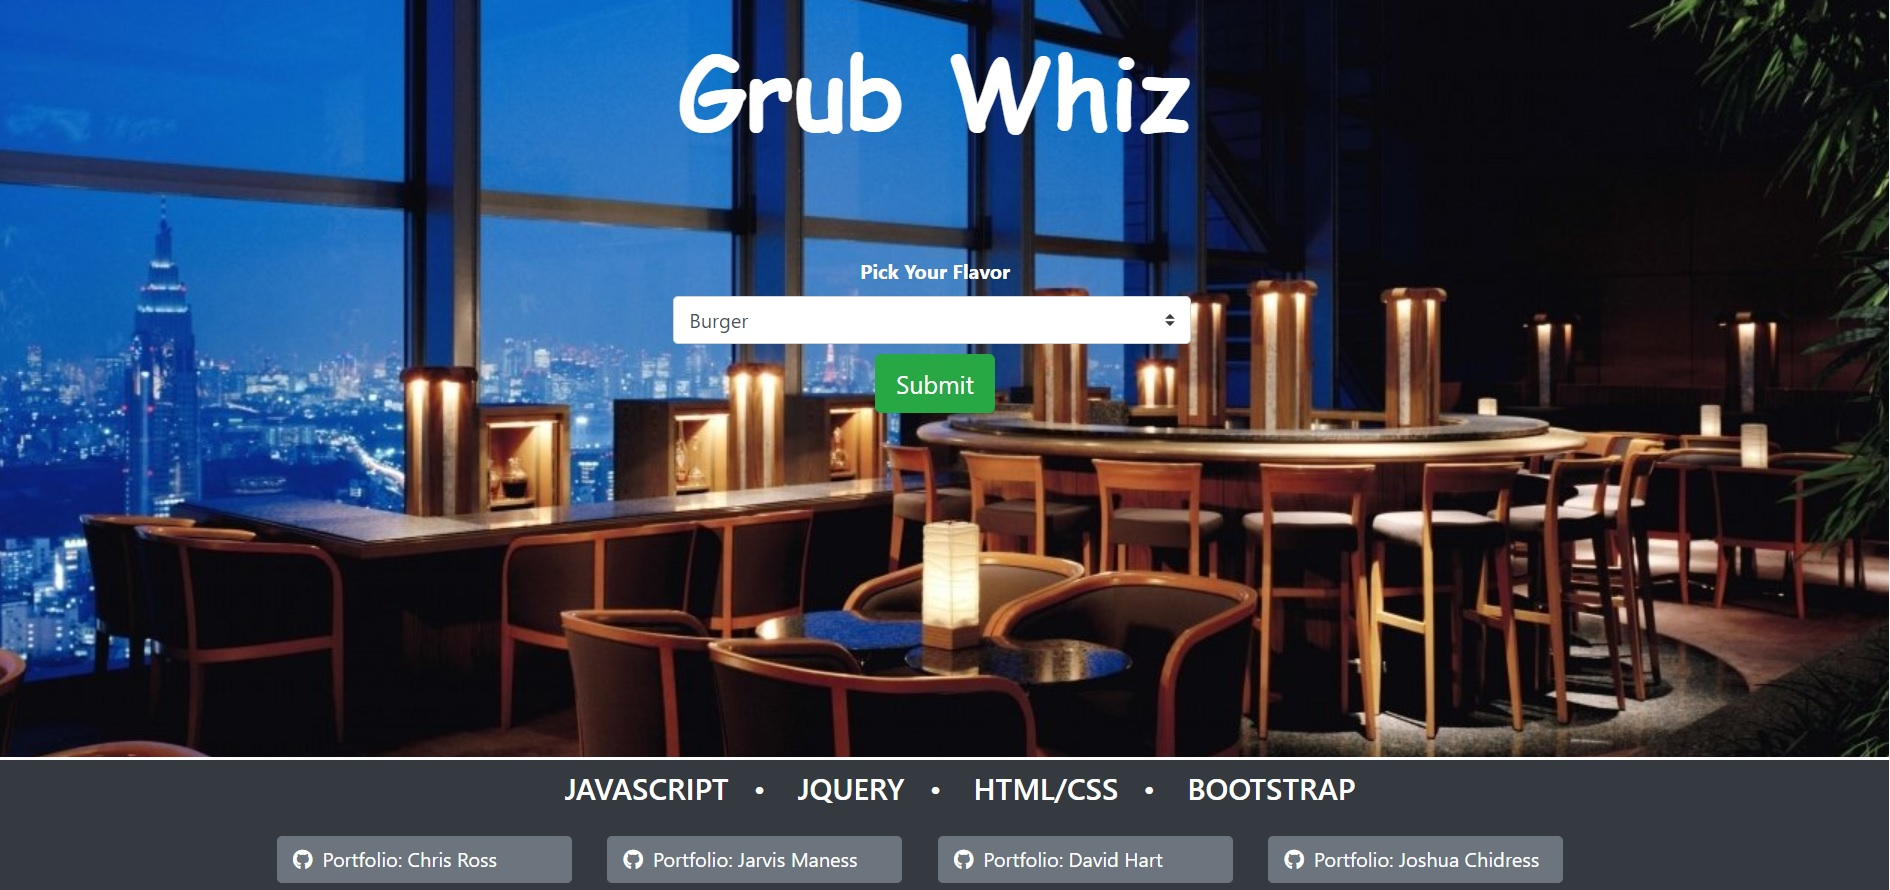
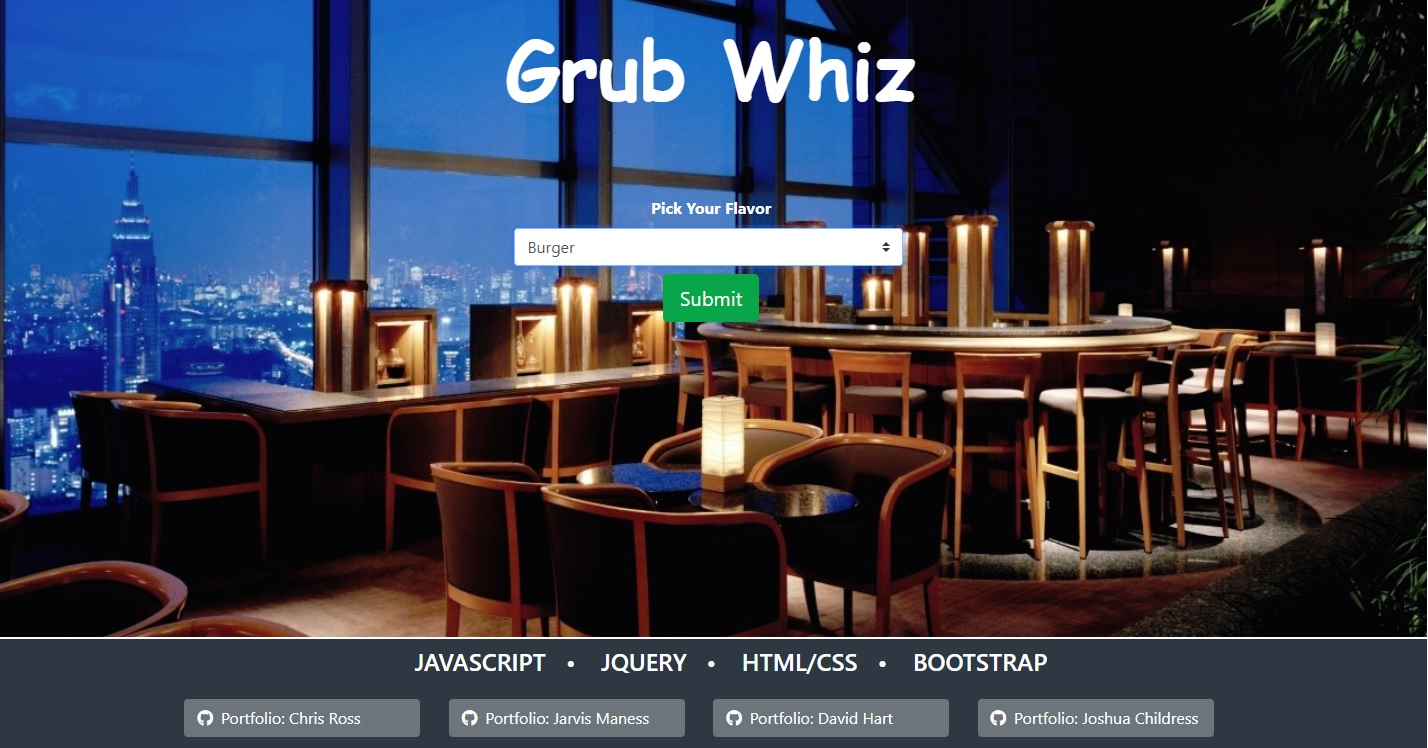
Update readme, fixed Josh's name in footer

diff --git a/index.html b/index.html
@@ -117,7 +117,7 @@
 
 
         <a href="https://github.com/Jrchild13" target="_blank" class="btn btn-secondary text-left mb-3 mr-4"><span
-                class="fab fa-github pr-2"></span>Portfolio: Joshua Chidress</a>
+                class="fab fa-github pr-2"></span>Portfolio: Joshua Childress</a>
 
     </footer>
     <!-- FOOTER END-->

diff --git a/README.md b/README.md
@@ -49,10 +49,28 @@ Use the template below, replacing the user stories and acceptance criteria with 
 ## User Story
 As a user, I want to be able to input search queries so that I can search Stack Overflow when I'm stuck.
 
+<ol>
+    <li>Target audience is hungry people that are looking for a local place to eat based on certain criteria.</li>
+    <li>Provide a simple way to get info about local restaurants.</li>
+    <li>Provide an intuitive way to search based on criteria such as location, style, cost, menu.</li>
+    <li>User wants easy way to lookup local restaurant.</li>
+    <li>User wants to specify type of restaurant.</li>
+    <li>User wants some user basic review info.</li>
+</ol>
+
+
 ## Acceptance Criteria
 - [ ] index.html has a text input
 - [ ] index.html has a search button
-```
+
+<ol>
+    <li>html has input for search criteria such as style, cost, rating, name of restaurant.</li>
+    <li>This would be via toggle(s) based on what user wants to search.</li>
+    <li>html has serach button.</li>
+    <li>html has div outputs for results, pictures, maps.</li>
+    <li>Design for mobile layout as priority. </li>
+</ol>
+
 
 * **This is a critical task.** Don't be afraid to ask instructional staff for help during this part. Make sure that each task is clear and everyone on the team understands how to implement each one. 
 
@@ -72,21 +90,3 @@ In a dating website application...
 4. Display the closest match to the user.
 =======
 =======
-<ol>
-    <li>Target audience is hungry people that are looking for a local place to eat based on certain criteria.</li>
-    <li>Provide a simple way to get info about local restaurants.</li>
-    <li>Provide an intuitive way to search based on criteria such as location, style, cost, menu.</li>
-    <li>User wants easy way to lookup local restaurant.</li>
-    <li>User wants to specify type of restaurant.</li>
-    <li>User wants some user basic review info.</li>
-</ol>
-  
-# Acceptance Criteria
-<ol>
-    <li>html has input for search criteria such as style, cost, rating, name of restaurant.</li>
-    <li>This would be via toggle(s) based on what user wants to search.</li>
-    <li>html has serach button.</li>
-    <li>html has div outputs for results, pictures, maps.</li>
-    <li>Design for mobile layout as priority. </li>
-</ol>
-
